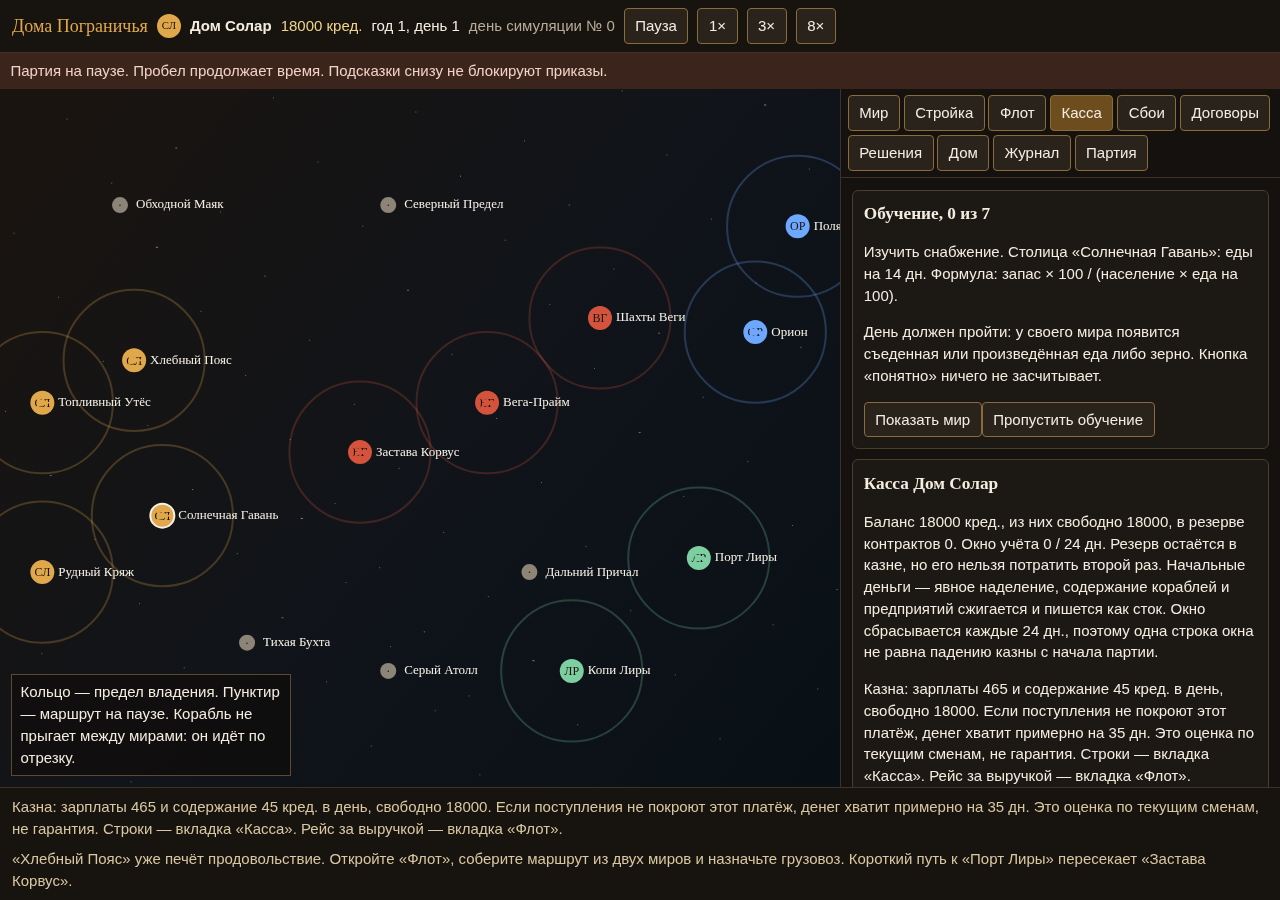
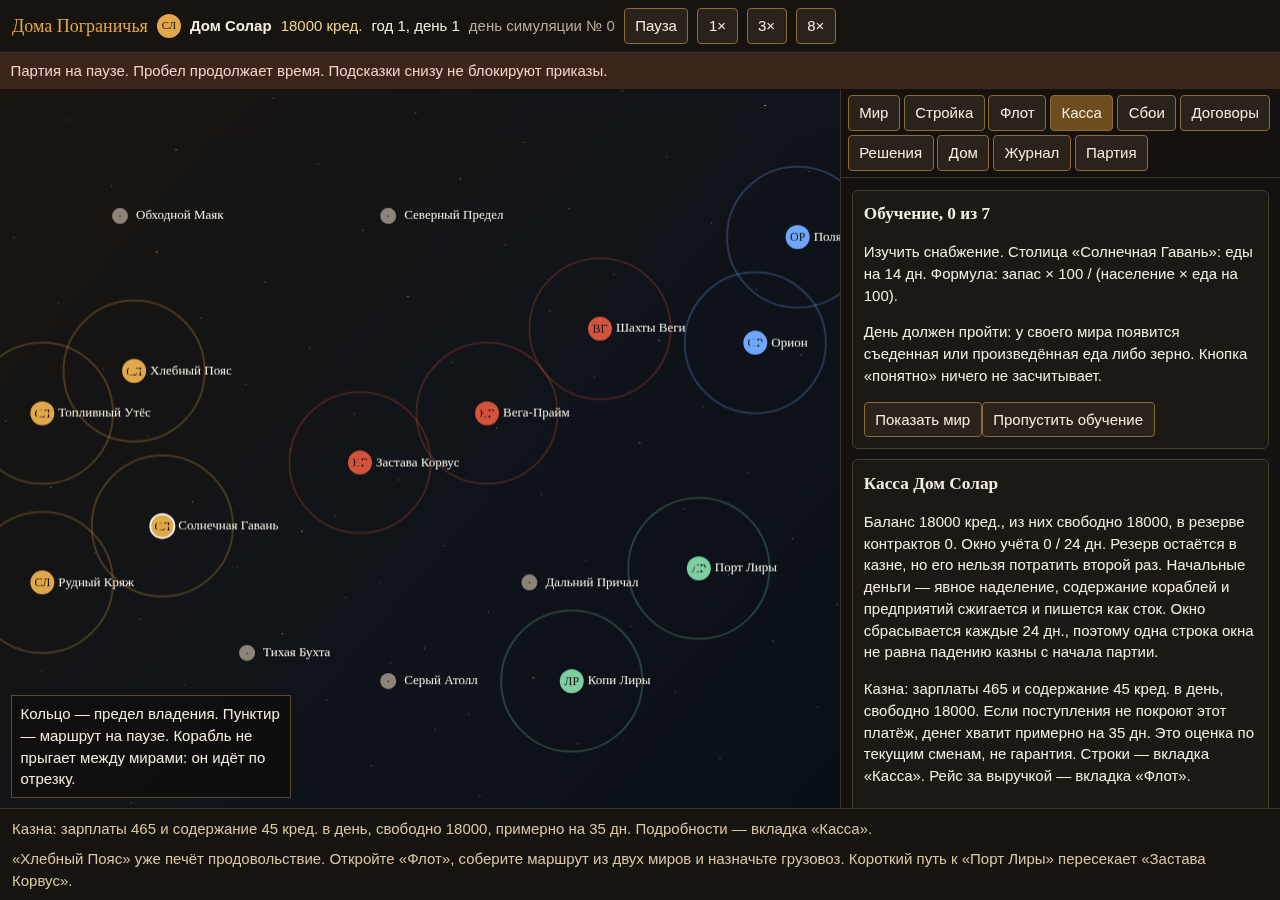
Оставить внизу короткую оценку казны, чтобы панель команд не схлопывалась.
Полный текст остаётся во вкладке «Касса». На узком экране нижняя строка ограничена по высоте и прокручивается, а вкладки и приказы остаются на экране.

diff --git a/src/sim/view.ts b/src/sim/view.ts
@@ -168,7 +168,7 @@ export function hintLines(state: SimState): string[] {
   if (!player) return [];
   const tips: string[] = [];
   const routes = state.routes.filter((route) => route.houseId === player.id);
-  const pressure = treasuryWarning(state, player.id);
+  const pressure = treasuryTicker(state, player.id);
   if (pressure) tips.push(pressure);
   if (routes.length === 0) tips.push(firstVoyageHint(state, player));
   const idle = state.ships.find((ship) => ship.houseId === player.id && ship.status === "docked" && !ship.routeId);
@@ -203,6 +203,12 @@ export function treasuryOutlook(state: SimState, houseId: string): { wages: numb
   if (burn <= 0) return null;
   const free = availableCredits(house);
   return { wages, upkeep, free, runway: Math.floor(free / burn) };
+}
+
+export function treasuryTicker(state: SimState, houseId: string): string | null {
+  const outlook = treasuryOutlook(state, houseId);
+  if (!outlook || outlook.runway > 60) return null;
+  return `Казна: зарплаты ${outlook.wages} и содержание ${outlook.upkeep} кред. в день, свободно ${outlook.free}, примерно на ${outlook.runway} дн. Подробности — вкладка «Касса».`;
 }
 
 export function treasuryWarning(state: SimState, houseId: string): string | null {

diff --git a/tests/treasury.test.ts b/tests/treasury.test.ts
@@ -28,7 +28,12 @@ describe("казна базовой партии", () => {
     expect(warning).toContain("зарплаты 465");
     expect(warning).toContain("примерно на 35 дн");
     expect(warning).toContain("«Касса»");
-    expect(hintLines(state)[0]).toBe(warning);
+    expect(warning).toContain("не гарантия");
+    const ticker = hintLines(state)[0];
+    expect(ticker).toContain("зарплаты 465");
+    expect(ticker).toContain("примерно на 35 дн");
+    expect(ticker).toContain("«Касса»");
+    expect(ticker.length).toBeLessThan(warning.length);
     const marks: Record<number, number> = {};
     let fail: number | null = null;
     for (let day = 1; day <= 60; day += 1) {

diff --git a/src/ui/styles.css b/src/ui/styles.css
@@ -119,6 +119,7 @@ input, select { background: #0e0c0a; border: 1px solid #5c4a30; border-radius: 4
 @media (max-width: 900px) {
   .stage { flex-direction: column; }
   .map-wrap { flex: 0 0 38vh; min-height: 38vh; }
+  .ticker { max-height: 5.5rem; overflow: auto; align-items: flex-start; }
   aside { width: 100%; flex: 1; min-height: 0; border-left: 0; border-top: 1px solid #3d3226; }
   .tabs { flex-wrap: nowrap; overflow-x: auto; }
 }
